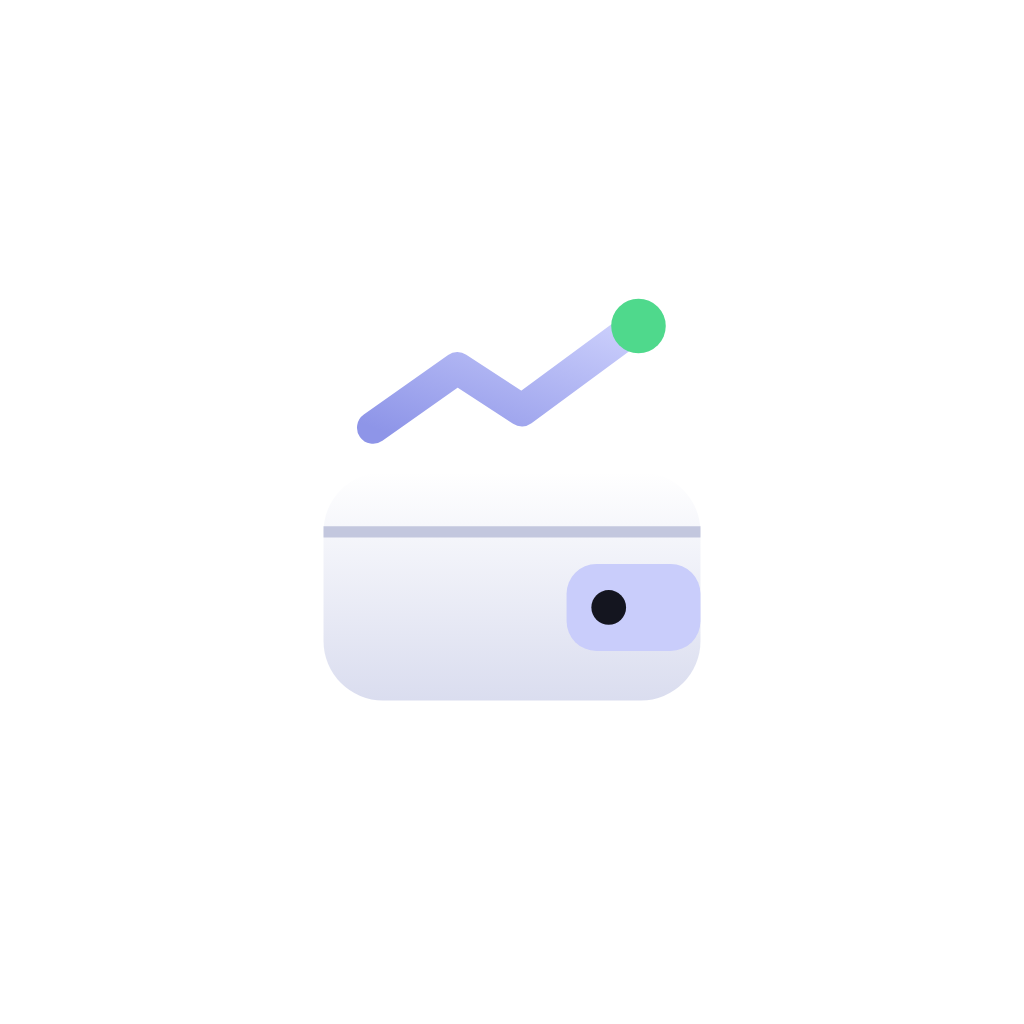
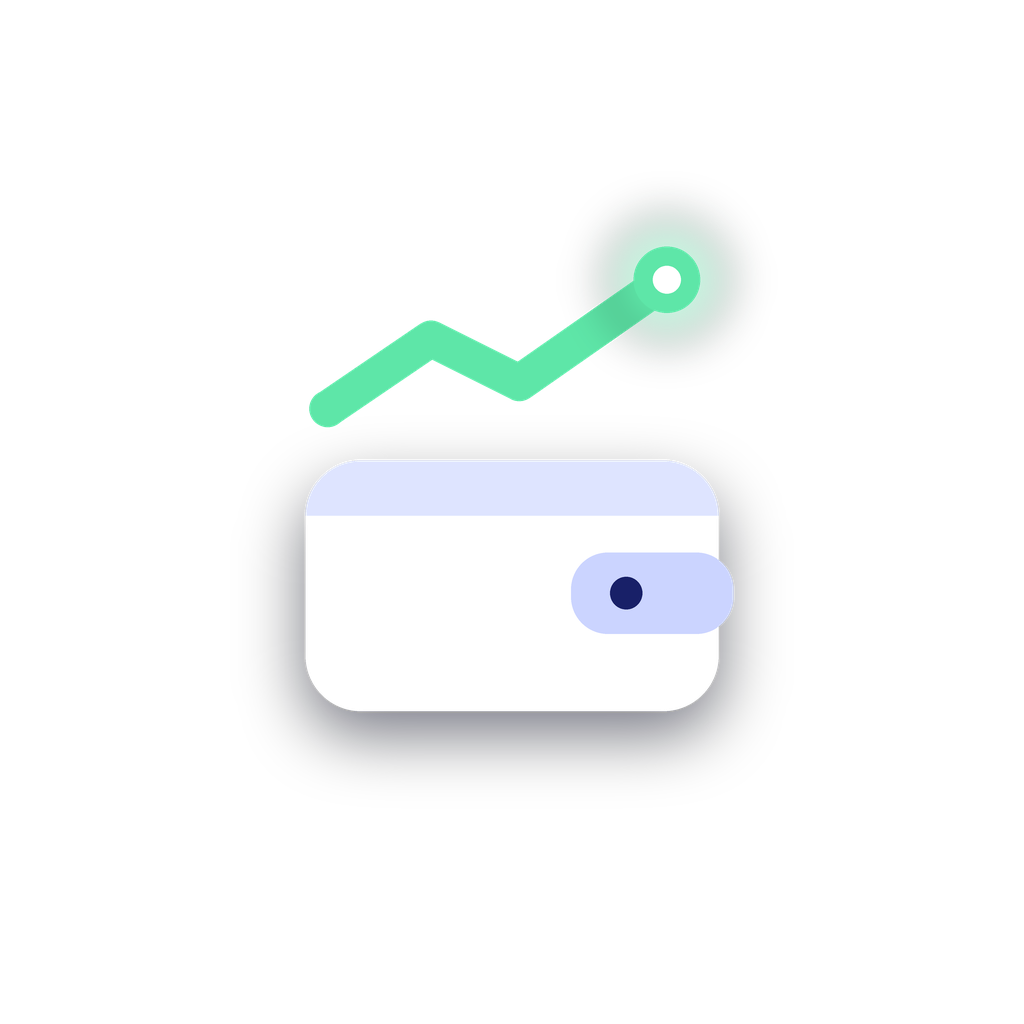
Visual: menos cor nos números, algarismos alinhados, ícones de categoria leves, telas vazias, novo ícone, carregamento na web e gráficos sem corte
Claude-Session: https://claude.ai/code/session_01TpEQ1uh5RxSoXKTujBY53r

Changed region(s): [[0.25, 0.1875, 0.75, 0.75]]

diff --git a/lib/telas/patrimonio.dart b/lib/telas/patrimonio.dart
@@ -201,10 +201,10 @@ class _Resumo extends StatelessWidget {
             'Origem' => Cartao(
         child: Column(crossAxisAlignment: CrossAxisAlignment.stretch, children: [
           CabecalhoCartao('De onde vem seu patrimônio', sub: c.investido > 0 ? '${pct(c.rendeu / c.investido, sinal: true)} desde ${dataBr(c.dias.first.data)}' : null),
-          Barra(c.total > 0 ? c.investido / c.total : 0, cor: const Color(0xFF9AA0BC), trilho: G.pos, altura: 10),
+          Barra(c.total > 0 ? c.investido / c.total : 0, cor: G.neutroSerie, trilho: G.pos, altura: 10),
           const SizedBox(height: 12),
           Row(children: [
-            Expanded(child: _Mini('Você aplicou', brl(c.investido), const Color(0xFF9AA0BC))),
+            Expanded(child: _Mini('Você aplicou', brl(c.investido), G.neutroSerie)),
             Expanded(child: _Mini('O dinheiro rendeu', brl(c.rendeu, sinal: true), G.pos)),
           ]),
         ]),
@@ -215,7 +215,7 @@ class _Resumo extends StatelessWidget {
             GraficoLinha(
               titulo: 'Evolução do patrimônio',
               series: [amostra.map((d) => d.total).toList(), amostra.map((d) => d.investido).toList()],
-              cores: [G.pos, Color(0xFF9AA0BC)],
+              cores: [G.pos, G.neutroSerie],
               tracejada: const [false, true],
               formatoY: curto,
               rotulosX: [dataCurta(amostra.first.data), dataCurta(amostra[amostra.length ~/ 2].data), dataCurta(amostra.last.data)],
@@ -226,7 +226,7 @@ class _Resumo extends StatelessWidget {
             Row(children: [
               _Legenda(G.pos, 'Saldo'),
               SizedBox(width: 14),
-              _Legenda(Color(0xFF9AA0BC), 'Quanto você aplicou'),
+              _Legenda(G.neutroSerie, 'Quanto você aplicou'),
             ]),
           ]),
         ),
@@ -371,7 +371,7 @@ class _LinhaPos extends StatelessWidget {
         Row(children: [
           Text('${pct(total > 0 ? p.valor / total : 0, casas: 1)} da carteira', style: TextStyle(color: G.apagado, fontSize: 12)),
           const Spacer(),
-          Text('${brl(p.lucro, sinal: true)} (${pct(p.rent, sinal: true)})', style: TextStyle(color: p.lucro >= 0 ? G.pos : G.neg, fontSize: 12, fontWeight: FontWeight.w600)),
+          Text('${brl(p.lucro, sinal: true)} (${pct(p.rent, sinal: true)})', style: TextStyle(color: p.lucro >= 0 ? G.texto2 : G.neg, fontSize: 12, fontWeight: FontWeight.w600)),
         ]),
       ]),
     );
@@ -725,7 +725,7 @@ class _TelaAtivoState extends State<TelaAtivo> {
         actions: [IconButton(tooltip: 'Editar', onPressed: () => abrirFolha(context, FormAtivo(doc: d)), icon: const Icon(Icons.edit_outlined))],
       ),
       body: lancs.isEmpty
-          ? Center(child: Text('Nenhum lançamento ainda.', style: TextStyle(color: G.apagado)))
+          ? Center(child: Vazio(icone: Icons.show_chart_rounded, titulo: 'Nenhum saldo lançado', texto: 'Lance o saldo deste ativo para ver a evolução aqui.'))
           : ListView(padding: const EdgeInsets.fromLTRB(12, 4, 12, 40), children: [
               _resumo(serie),
               const SizedBox(height: 14),
@@ -819,7 +819,7 @@ class _TelaAtivoState extends State<TelaAtivo> {
                   GraficoLinha(
                     titulo: 'Evolução do saldo',
                     series: [amostra.map((d) => d.total).toList(), amostra.map((d) => d.investido).toList()],
-                    cores: [G.pos, const Color(0xFF9AA0BC)],
+                    cores: [G.pos, G.neutroSerie],
                     tracejada: const [false, true],
                     formatoY: curto,
                     rotulosX: [dataCurta(amostra.first.data), dataCurta(amostra[amostra.length ~/ 2].data), dataCurta(amostra.last.data)],
@@ -827,7 +827,7 @@ class _TelaAtivoState extends State<TelaAtivo> {
                     rotuloToque: (i) => dataBr(amostra[i.clamp(0, amostra.length - 1).toInt()].data),
                   ),
                   const SizedBox(height: 8),
-                  Row(children: [Legenda(G.pos, 'Saldo'), const SizedBox(width: 14), const Legenda(Color(0xFF9AA0BC), 'Quanto você aplicou')]),
+                  Row(children: [Legenda(G.pos, 'Saldo'), const SizedBox(width: 14), Legenda(G.neutroSerie, 'Quanto você aplicou')]),
                 ])
               : ms.isEmpty
                   ? Padding(
@@ -911,7 +911,7 @@ class _TelaAtivoState extends State<TelaAtivo> {
                 Builder(builder: (_) {
                   final v = variacao[l.id];
                   if (v == null) return Text('início', style: TextStyle(color: G.apagado, fontSize: 12.5));
-                  return Text(brl(v, sinal: true), style: TextStyle(color: v >= 0 ? G.pos : G.neg, fontWeight: FontWeight.w700, fontSize: 13.5));
+                  return Text(brl(v, sinal: true), style: TextStyle(color: v >= 0 ? G.texto2 : G.neg, fontWeight: FontWeight.w600, fontSize: 13.5));
                 }),
               ]),
             ),
@@ -1160,7 +1160,7 @@ class _RelatoriosState extends State<_Relatorios> {
               FittedBox(fit: BoxFit.scaleDown, child: Text(brl(fim.saldo), style: const TextStyle(fontSize: 30, fontWeight: FontWeight.w800))),
               const SizedBox(height: 8),
               Row(children: [
-                Expanded(child: _Mini('Você investiu', brl(fim.investido), const Color(0xFF9AA0BC))),
+                Expanded(child: _Mini('Você investiu', brl(fim.investido), G.neutroSerie)),
                 Expanded(child: _Mini('Juros trabalharam', brl(fim.saldo - fim.investido), G.pos)),
               ]),
             ]),
@@ -1169,7 +1169,7 @@ class _RelatoriosState extends State<_Relatorios> {
           GraficoLinha(
             titulo: 'Projeção',
             series: [amostra.map((p) => p.saldo).toList(), amostra.map((p) => p.investido).toList()],
-            cores: [G.pos, Color(0xFF9AA0BC)],
+            cores: [G.pos, G.neutroSerie],
             tracejada: const [false, true],
             formatoY: curto,
             rotulosX: ['hoje', '${anos ~/ 2} anos', '$anos anos'],

diff --git a/lib/widgets/painel.dart b/lib/widgets/painel.dart
@@ -26,11 +26,13 @@ class KpiTile extends StatelessWidget {
   @override
   Widget build(BuildContext context) {
     final cor = k.cor ?? G.texto;
-    final estilo = TextStyle(fontSize: 20, fontWeight: FontWeight.w800, letterSpacing: -.5, color: cor);
+    // a cor fica no ícone; o número só ganha cor quando pede atenção
+    final alerta = k.cor == G.neg || k.cor == G.alerta;
+    final estilo = TextStyle(fontSize: 20, fontWeight: FontWeight.w800, letterSpacing: -.5, color: alerta ? cor : G.texto);
     return Cartao(
       onTap: k.onTap,
-      padding: const EdgeInsets.fromLTRB(12, 11, 12, 11),
-      raio: 16,
+      padding: const EdgeInsets.fromLTRB(13, 12, 13, 12),
+      raio: 20,
       child: Column(crossAxisAlignment: CrossAxisAlignment.start, children: [
         Row(children: [
           Icon(k.icone, size: 15, color: cor),
@@ -377,6 +379,8 @@ class TituloSecao extends StatelessWidget {
 class FaixaNumeros extends StatelessWidget {
   final List<(String, String, Color?)> itens;
   const FaixaNumeros(this.itens, {super.key});
+  // verde de "deu certo" vira neutro; vermelho/alerta continuam chamando atenção
+  static Color _cor(Color? c) => (c == null || c == G.pos) ? G.texto : c;
   @override
   Widget build(BuildContext context) {
     return Container(
@@ -394,7 +398,7 @@ class FaixaNumeros extends StatelessWidget {
                 FittedBox(
                   fit: BoxFit.scaleDown,
                   alignment: Alignment.centerLeft,
-                  child: Text(itens[i].$2, style: TextStyle(fontWeight: FontWeight.w800, fontSize: 14.5, color: itens[i].$3 ?? G.texto)),
+                  child: Text(itens[i].$2, style: TextStyle(fontWeight: FontWeight.w800, fontSize: 14.5, color: _cor(itens[i].$3))),
                 ),
               ]),
             ),
@@ -436,4 +440,43 @@ class Rodape extends StatelessWidget {
         padding: const EdgeInsets.only(top: 10),
         child: Text(texto, style: TextStyle(color: G.apagado, fontSize: 11)),
       );
+}
+
+/// Tela/área vazia: um desenho simples, uma frase e (opcional) o botão que
+/// leva direto à ação.
+class Vazio extends StatelessWidget {
+  final IconData icone;
+  final String titulo;
+  final String? texto;
+  final String? acao;
+  final VoidCallback? onAcao;
+  const Vazio({super.key, required this.icone, required this.titulo, this.texto, this.acao, this.onAcao});
+  @override
+  Widget build(BuildContext context) {
+    return Padding(
+      padding: const EdgeInsets.symmetric(vertical: 26, horizontal: 20),
+      child: Column(mainAxisSize: MainAxisSize.min, children: [
+        SizedBox(
+          width: 86,
+          height: 86,
+          child: Stack(alignment: Alignment.center, children: [
+            Container(decoration: BoxDecoration(shape: BoxShape.circle, color: G.lavanda.withValues(alpha: .10))),
+            Positioned(right: 6, top: 8, child: Container(width: 14, height: 14, decoration: BoxDecoration(shape: BoxShape.circle, color: G.lavanda.withValues(alpha: .22)))),
+            Positioned(left: 10, bottom: 12, child: Container(width: 9, height: 9, decoration: BoxDecoration(shape: BoxShape.circle, color: G.pos.withValues(alpha: .35)))),
+            Icon(icone, size: 36, color: G.lavanda),
+          ]),
+        ),
+        const SizedBox(height: 14),
+        Text(titulo, textAlign: TextAlign.center, style: const TextStyle(fontSize: 16, fontWeight: FontWeight.w700)),
+        if (texto != null) ...[
+          const SizedBox(height: 4),
+          Text(texto!, textAlign: TextAlign.center, style: TextStyle(color: G.apagado, fontSize: 13, height: 1.35)),
+        ],
+        if (acao != null && onAcao != null) ...[
+          const SizedBox(height: 16),
+          FilledButton.icon(onPressed: onAcao, icon: const Icon(Icons.add_rounded), label: Text(acao!)),
+        ],
+      ]),
+    );
+  }
 }

diff --git a/lib/telas/abertura.dart b/lib/telas/abertura.dart
@@ -162,7 +162,10 @@ class _Carteira extends CustomPainter {
     canvas.save();
     canvas.scale(s);
     final fundo = RRect.fromRectAndRadius(const Rect.fromLTWH(0, 0, 512, 512), const Radius.circular(116));
-    canvas.drawRRect(fundo, Paint()..color = const Color(0xFF2A2D44));
+    canvas.drawRRect(
+      fundo,
+      Paint()..shader = const LinearGradient(begin: Alignment.topLeft, end: Alignment.bottomRight, colors: [Color(0xFF4A66EA), Color(0xFF121852)]).createShader(const Rect.fromLTWH(0, 0, 512, 512)),
+    );
 
     // moedas caindo de cima da tela para dentro da carteira (somem atrás dela)
     const moedas = [(x: 190.0, ini: .08), (x: 268.0, ini: .17), (x: 228.0, ini: .26)];
@@ -194,9 +197,13 @@ class _Carteira extends CustomPainter {
     final dy = -10 * math.sin(tranco * math.pi);
     canvas.save();
     canvas.translate(0, dy);
-    canvas.drawRRect(RRect.fromRectAndRadius(const Rect.fromLTWH(104, 218, 304, 184), const Radius.circular(48)), Paint()..color = Colors.white);
-    canvas.drawRRect(RRect.fromRectAndRadius(const Rect.fromLTWH(300, 292, 108, 70), const Radius.circular(24)), Paint()..color = const Color(0xFFC9CDFB));
-    canvas.drawCircle(const Offset(334, 327), 14, Paint()..color = const Color(0xFF14151F));
+    canvas.drawRRect(RRect.fromRectAndRadius(const Rect.fromLTWH(113, 220, 286, 174), const Radius.circular(38)), Paint()..color = const Color(0xFFDEE4FF));
+    canvas.drawRRect(
+      RRect.fromRectAndCorners(const Rect.fromLTWH(113, 259, 286, 135), bottomLeft: const Radius.circular(38), bottomRight: const Radius.circular(38)),
+      Paint()..color = Colors.white,
+    );
+    canvas.drawRRect(RRect.fromRectAndRadius(const Rect.fromLTWH(297, 284, 113, 56), const Radius.circular(26)), Paint()..color = const Color(0xFFCBD4FF));
+    canvas.drawCircle(const Offset(335, 312), 11, Paint()..color = const Color(0xFF182068));
     canvas.restore();
 
     // gráfico crescendo acima da carteira
@@ -220,9 +227,9 @@ class _Carteira extends CustomPainter {
       canvas.drawPath(
         parcial,
         Paint()
-          ..color = const Color(0xFFB9BFF6)
+          ..color = const Color(0xFF5EE6A8)
           ..style = PaintingStyle.stroke
-          ..strokeWidth = 28
+          ..strokeWidth = 26
           ..strokeCap = StrokeCap.round
           ..strokeJoin = StrokeJoin.round,
       );
@@ -230,14 +237,15 @@ class _Carteira extends CustomPainter {
       final pop = _f(.62, .7, Curves.elasticOut);
       if (pop > 0) {
         final fim = pts.last + const Offset(10, -6);
-        canvas.drawCircle(fim, 22 * pop, Paint()..color = const Color(0xFF4FD98C));
+        canvas.drawCircle(fim, 23 * pop, Paint()..color = const Color(0xFF5EE6A8));
+        canvas.drawCircle(fim, 10 * pop, Paint()..color = Colors.white);
         final halo = _f(.64, .8);
         if (halo > 0 && halo < 1) {
           canvas.drawCircle(
             fim,
             22 + 40 * halo,
             Paint()
-              ..color = const Color(0xFF4FD98C).withValues(alpha: .5 * (1 - halo))
+              ..color = const Color(0xFF5EE6A8).withValues(alpha: .5 * (1 - halo))
               ..style = PaintingStyle.stroke
               ..strokeWidth = 6,
           );

diff --git a/lib/tema.dart b/lib/tema.dart
@@ -108,6 +108,8 @@ class G {
   static const coresSerieClaro = [Color(0xFF4F57D6), Color(0xFF12935A), Color(0xFFE8664F), Color(0xFF2C8FD9), Color(0xFFD69A2D), Color(0xFFD35A9E), Color(0xFF1FA595), Color(0xFF8A8FA8)];
   /// Cores dos gráficos do tema Linho & Safira (as mesmas do site).
   static const coresSerieLinho = [Color(0xFF2448C8), Color(0xFFD98A1E), Color(0xFF11885A), Color(0xFFC8553D), Color(0xFF7C4DCC), Color(0xFF1A8FA8), Color(0xFFD14D86), Color(0xFF7A7F8C)];
+  /// Cor única para "quanto você aplicou"/linhas de referência em todos os gráficos.
+  static Color get neutroSerie => claro ? const Color(0xFF9AA0BC) : const Color(0xFF7D839F);
   static List<Color> get coresSerie => claro ? (_l ? coresSerieLinho : coresSerieClaro) : coresSerieEscuro;
 }
 
@@ -167,19 +169,29 @@ ThemeData temaGrafite() {
     scaffoldBackgroundColor: G.fundo,
     fontFamily: null,
   );
-  final t = base.textTheme.apply(bodyColor: G.texto, displayColor: G.texto);
+  final t0 = base.textTheme.apply(bodyColor: G.texto, displayColor: G.texto);
+  // números com a mesma largura (colunas de valores alinhadas, como num extrato)
+  const tab = [FontFeature.tabularFigures()];
+  TextStyle? f(TextStyle? e) => e?.copyWith(fontFeatures: tab);
+  final t = TextTheme(
+    displayLarge: f(t0.displayLarge), displayMedium: f(t0.displayMedium), displaySmall: f(t0.displaySmall),
+    headlineLarge: f(t0.headlineLarge?.copyWith(fontWeight: FontWeight.w800, letterSpacing: -1)),
+    headlineMedium: f(t0.headlineMedium), headlineSmall: f(t0.headlineSmall),
+    titleLarge: f(t0.titleLarge?.copyWith(fontWeight: FontWeight.w700, letterSpacing: -.3)),
+    titleMedium: f(t0.titleMedium?.copyWith(fontWeight: FontWeight.w700)),
+    titleSmall: f(t0.titleSmall),
+    bodyLarge: f(t0.bodyLarge), bodyMedium: f(t0.bodyMedium), bodySmall: f(t0.bodySmall),
+    labelLarge: f(t0.labelLarge), labelMedium: f(t0.labelMedium), labelSmall: f(t0.labelSmall),
+  );
   return base.copyWith(
-    textTheme: t.copyWith(
-      headlineLarge: t.headlineLarge?.copyWith(fontWeight: FontWeight.w800, letterSpacing: -1),
-      titleLarge: t.titleLarge?.copyWith(fontWeight: FontWeight.w700, letterSpacing: -.3),
-      titleMedium: t.titleMedium?.copyWith(fontWeight: FontWeight.w700),
-    ),
+    textTheme: t,
     appBarTheme: AppBarTheme(
       backgroundColor: Colors.transparent,
       surfaceTintColor: Colors.transparent,
       elevation: 0,
       centerTitle: true,
       foregroundColor: G.texto,
+      titleTextStyle: TextStyle(fontSize: 18, fontWeight: FontWeight.w700, letterSpacing: -.2, color: G.texto, fontFeatures: const [FontFeature.tabularFigures()]),
     ),
     dividerTheme: DividerThemeData(color: G.borda, thickness: 1, space: 1),
     inputDecorationTheme: InputDecorationTheme(

diff --git a/lib/widgets/comum.dart b/lib/widgets/comum.dart
@@ -21,7 +21,7 @@ class Cartao extends StatelessWidget {
   final Gradient? gradiente;
   final double raio;
   final VoidCallback? onTap;
-  const Cartao({super.key, required this.child, this.padding = const EdgeInsets.all(14), this.gradiente, this.raio = 18, this.onTap});
+  const Cartao({super.key, required this.child, this.padding = const EdgeInsets.all(16), this.gradiente, this.raio = 20, this.onTap});
 
   @override
   Widget build(BuildContext context) {
@@ -79,19 +79,18 @@ class IconeCategoria extends StatelessWidget {
   @override
   Widget build(BuildContext context) {
     final c = cat.cor;
+    // ícone colorido sobre um fundo clarinho da mesma cor: a categoria continua
+    // fácil de reconhecer sem pesar na lista
+    final escuro = !G.claro;
+    final cor = escuro ? Color.lerp(c, Colors.white, .25)! : Color.lerp(c, Colors.black, .08)!;
     return Container(
       width: tam,
       height: tam,
       decoration: BoxDecoration(
-        borderRadius: BorderRadius.circular(tam * .33),
-        gradient: LinearGradient(
-          begin: Alignment.topLeft,
-          end: Alignment.bottomRight,
-          colors: [Color.lerp(c, Colors.white, .08)!, Color.lerp(c, Colors.black, .22)!],
-        ),
-        boxShadow: [BoxShadow(color: c.withValues(alpha: .35), blurRadius: 10, offset: const Offset(0, 4), spreadRadius: -6)],
+        borderRadius: BorderRadius.circular(tam * .32),
+        color: c.withValues(alpha: escuro ? .20 : .13),
       ),
-      child: Icon(cat.icone, color: Colors.white, size: tam * .5),
+      child: Icon(cat.icone, color: cor, size: tam * .52),
     );
   }
 }

diff --git a/lib/telas/extrato.dart b/lib/telas/extrato.dart
@@ -6,6 +6,7 @@ import '../dados/resumo.dart';
 import '../tema.dart';
 import '../util/fmt.dart';
 import '../widgets/comum.dart';
+import '../widgets/painel.dart';
 import '../widgets/movimento.dart';
 import 'analise.dart';
 import 'busca.dart';
@@ -249,14 +250,15 @@ class _TelaExtratoState extends State<TelaExtrato> {
         const SliverToBoxAdapter(child: SizedBox(height: 130))
       else if (lista.isEmpty)
         SliverToBoxAdapter(
-          child: Padding(
-            padding: const EdgeInsets.all(30),
-            child: Column(children: [
-              Icon(Icons.receipt_long_rounded, size: 40, color: G.apagado),
-              const SizedBox(height: 10),
-              Text(q.isNotEmpty ? 'Nada encontrado para “${buscaC.text}”.' : 'Nenhum lançamento em ${mesLongo(widget.ym).toLowerCase()}.', textAlign: TextAlign.center, style: TextStyle(color: G.apagado)),
-            ]),
-          ),
+          child: q.isNotEmpty || cat != null || filtro != 'tudo'
+              ? Vazio(icone: Icons.search_off_rounded, titulo: 'Nada encontrado', texto: q.isNotEmpty ? 'Nenhum lançamento com “${buscaC.text}” neste mês.' : 'Nenhum lançamento com esse filtro neste mês.')
+              : Vazio(
+                  icone: Icons.receipt_long_rounded,
+                  titulo: 'Nada lançado em ${mesLongo(widget.ym).toLowerCase()}',
+                  texto: 'Seus gastos e entradas do mês aparecem aqui.',
+                  acao: 'Lançar gasto',
+                  onAcao: () => abrirFormLanc(context),
+                ),
         )
       else
         SliverPadding(

diff --git a/lib/widgets/graficos.dart b/lib/widgets/graficos.dart
@@ -176,12 +176,13 @@ class GraficoLinha extends StatelessWidget {
             maxX: math.max(1, n - 1).toDouble(),
             minY: base,
             maxY: topo,
-            clipData: const FlClipData.all(),
+            // a borda direita não corta o último ponto nem o último rótulo
+            clipData: const FlClipData(top: true, bottom: true, left: true, right: false),
             gridData: _grade(passoRedondo(topo - base)),
             borderData: FlBorderData(show: false),
             titlesData: FlTitlesData(
               topTitles: const AxisTitles(sideTitles: SideTitles(showTitles: false)),
-              rightTitles: const AxisTitles(sideTitles: SideTitles(showTitles: false)),
+              rightTitles: AxisTitles(sideTitles: SideTitles(showTitles: true, reservedSize: 16, getTitlesWidget: (_, __) => const SizedBox.shrink())),
               leftTitles: AxisTitles(
                 sideTitles: SideTitles(
                   showTitles: true,

diff --git a/lib/telas/inicio.dart b/lib/telas/inicio.dart
@@ -129,7 +129,7 @@ class _Ultimos extends StatelessWidget {
       child: Column(crossAxisAlignment: CrossAxisAlignment.stretch, children: [
         CabecalhoCartao('Últimos lançamentos', sub: mesLongo(r.ym), acao: 'Ver extrato', onAcao: irExtrato),
         if (ult.isEmpty)
-          Padding(padding: EdgeInsets.symmetric(vertical: 10), child: Text('Nada lançado neste mês. Toque no + para começar.', style: TextStyle(color: G.apagado)))
+          Vazio(icone: Icons.receipt_long_rounded, titulo: 'Nada lançado neste mês', texto: 'Comece pelo primeiro gasto ou entrada.', acao: 'Lançar gasto', onAcao: () => abrirFormLanc(context))
         else
           CaixaLista([for (final l in ult) LinhaLanc(l, onTap: () => abrirFormLanc(context, doc: l.doc))]),
       ]),

diff --git a/lib/telas/analise_inv.dart b/lib/telas/analise_inv.dart
@@ -186,7 +186,7 @@ class _CardAtivos extends StatelessWidget {
                 ),
                 const SizedBox(width: 8),
                 Column(crossAxisAlignment: CrossAxisAlignment.end, children: [
-                  Text(pct(lista[i].rent, sinal: true), style: TextStyle(fontWeight: FontWeight.w800, color: lista[i].rent >= 0 ? G.pos : G.neg)),
+                  Text(pct(lista[i].rent, sinal: true), style: TextStyle(fontWeight: FontWeight.w700, color: lista[i].rent >= 0 ? G.texto : G.neg)),
                   if (lista[i].pctCdi != null)
                     Builder(builder: (_) {
                       final q = lista[i].pctCdi!;
